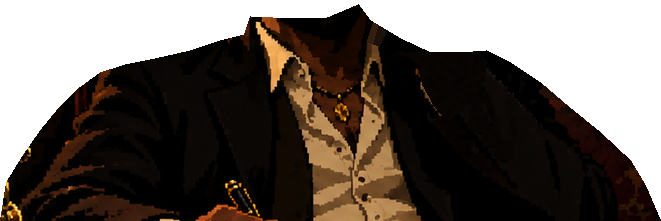
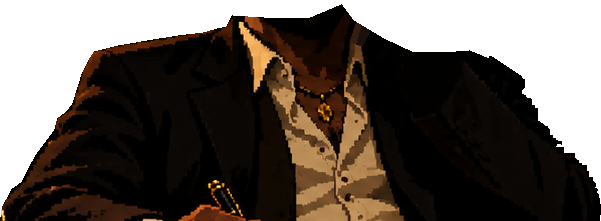
style: improve start screen animation

diff --git a/tools/gen_menu_layers.py b/tools/gen_menu_layers.py
@@ -245,30 +245,50 @@ HAND = [(421.5, 306), (424, 305.2), (431, 304.5), (437, 303.5), (441, 302.5), (4
 		(451.8, 298), (451.8, 292), (455, 289.4), (462, 289.4), (466.5, 290.6), (468.8, 293),
 		(468.8, 297.4), (477, 297.4), (478, 296.4), (483, 296), (484, 292.6), (498, 292.6),
 		(500, 289.6), (508, 289), (517, 291), (518, 304),
-		(507, 308), (511, 312), (521, 322), (533, 342), (549, 366), (560, 384), (552, 398),
+		(507, 307), (502, 311), (500.5, 320), (507, 330), (511.8, 336.5), (515.8, 341), (524, 350), (531.5, 360),
+		(541.5, 372), (546, 378), (551, 386), (552, 398),
 		(536, 414), (527, 412), (520, 402), (505, 394), (490, 388), (470, 381), (455, 378),
 		(450, 380), (443, 376), (441, 368), (432, 370), (427, 366), (428, 348), (430, 333),
 		(432, 326), (428, 321), (424, 317), (421.5, 315.5)]
-# The watch, the cuff and the sleeve down to a cut across it.
-FOREARM = [(520, 404), (532, 388), (540, 372), (552, 366), (566, 376), (572, 388), (586, 392),
-		(610, 404), (640, 424), (668, 448), (612, 510), (585, 490), (562, 468), (546, 458),
-		(536, 446), (524, 424)]
-# What of the forearm has to leave the plate: the sleeve stays (the sprite
-# slides along it), the watch, the cuff and the buttons do not.
-CUFF = [(520, 404), (532, 388), (540, 372), (552, 366), (566, 376), (572, 388), (584, 400),
-		(582, 420), (566, 444), (548, 458), (536, 446), (524, 424)]
-BUTTONS = [(570, 454, 586, 470), (584, 468, 600, 484), (596, 482, 612, 498)]
+# What slides down the sleeve with the hand: the watch, the cuff and the three
+# buttons, and nothing of the sleeve itself (the grey of it stays where it is
+# painted, and so does the upper arm, the black band behind it). They are cut
+# by what is lit, pixel by pixel, inside this line. Only its first stretch,
+# along the watch where it lies on the wrist, is a drawn edge; the rest just
+# keeps the studs of the chair out.
+WRISTBAND = [(514, 408), (519, 403.5), (527, 399.5), (533, 396), (539, 391), (543, 386), (545, 377),
+		(547, 373), (551, 369), (560, 372), (568, 382), (575, 390), (606, 408), (606, 460), (520, 460),
+		(510, 430)]
+BUTTONS = (570, 450, 614, 502)
+# Along these stretches a drawn line is not enough, and the cut follows the
+# pixels: the back of the hand over the chair, and the upper arm against the
+# wall and the blanket.
+HAND_ON_CHAIR = (495, 305, 548, 378)
+ARM_ON_WALL = (606, 396, 726, 561)
+# The lit cloth of the forearm's sleeve: the grey that holds this point,
+# inside this box. The game slides and relights it as the arm tips, so the
+# buttons do not seem to wander down a sleeve that stands still. The axis is
+# the line of its edge (FOREARM_AXIS in menu_scene.gd), which against the
+# upper arm is x = 1.033 y + 163.
+SLEEVE = (566, 398, 700, 566)
+SLEEVE_HOLDS = (610, 450)
+SLEEVE_AXIS = (0.72, 0.7)
 # His face under the hand: inside this line is him, outside is the room.
 JAW = [(392, 284), (470, 284), (470, 300), (467, 312), (461, 324), (452, 336), (442, 346),
 		(428, 350), (392, 350)]
-HEAD = [(298, 300), (298, 224), (316, 190), (350, 166), (400, 156), (450, 160), (482, 176),
-		(502, 206), (508, 240), (503, 270), (494, 290), (482, 306), (472, 326), (458, 342),
-		(444, 352), (425, 357), (395, 357), (372, 352), (356, 346), (338, 356), (310, 352),
-		(298, 340)]
-TORSO = [(350, 356), (344, 374), (320, 380), (290, 390), (255, 398), (225, 404), (200, 412),
-		(178, 428), (158, 448), (140, 470), (122, 496), (106, 522), (100, 560), (760, 560),
-		(745, 525), (730, 500), (700, 472), (668, 446), (640, 422), (610, 402), (586, 390),
-		(560, 392), (530, 392), (500, 378), (470, 360), (458, 344), (425, 358), (395, 358)]
+HEAD = [(296, 226), (300, 212), (310, 198), (326, 184), (344, 172), (360, 164), (380, 161), (399, 162),
+		(416, 167), (436, 168), (457, 175), (468, 190), (478, 208), (485, 228), (488, 250), (489, 275),
+		(487, 292), (482, 306), (472, 326), (458, 342),
+		(444, 352), (425, 357), (395, 357), (372, 352), (356, 346), (346, 353), (342, 358),
+		(336, 357), (334, 351), (327, 349), (325.5, 341), (326, 333), (318, 332.5), (310.5, 326),
+		(307.5, 312), (305, 299), (296, 297)]
+TORSO = [(349, 355), (343, 366), (334, 368.5), (320, 372), (295, 375.5), (270, 379), (235, 385.5),
+		(223, 388.5), (211, 391), (205, 400), (199, 412), (194.5, 428), (189.5, 444), (182, 452),
+		(174, 458), (171, 470), (164, 479), (153, 494), (146, 506), (139, 521), (128, 529), (123, 539),
+		(119, 546), (117, 560), (720, 560), (720, 522), (712, 507.5), (702, 499), (691, 492.5),
+		(682, 490), (676, 479), (668, 465), (658, 459), (656.5, 446), (648.5, 437), (644, 432), (640, 420.5),
+		(610, 400.5), (586, 390), (560, 392), (530, 392), (500, 378), (470, 360), (458, 344),
+		(425, 358), (395, 358)]
 
 EYE_L = (364, 258, 396, 274)
 EYE_R = (420, 246, 448, 260)
@@ -417,23 +437,111 @@ def mouth_frames(bare):
 	return [bare[y0:y1, x0:x1], blow]
 
 
-def cut_man(clean):
+def biggest(mask):
+	"""The largest connected piece of `mask`."""
+	pieces, count = ndimage.label(mask)
+	if count == 0:
+		return mask
+	return pieces == 1 + np.argmax(ndimage.sum(mask, pieces, range(1, count + 1)))
+
+
+def inside(shape, box):
+	x0, y0, x1, y1 = box
+	mask = np.zeros(shape[:2], bool)
+	mask[y0:y1, x0:x1] = True
+	return mask
+
+
+def cut_hand(clean):
+	"""The hand with the cigar. Over the chair its edge is the edge of the
+	lit skin, plus the one dark pixel that outlines it: a line drawn by eye
+	there takes carving and studs along."""
 	shape = clean.shape
 	hand = poly_mask(shape, HAND)
-	fore = poly_mask(shape, FOREARM)
-	cuff = poly_mask(shape, CUFF)
-	for x0, y0, x1, y1 in BUTTONS:
-		cuff[y0:y1, x0:x1] = True
-	# Every bright bit of the cuff and the watch.
-	cuff |= fore & (lum(clean) > 40.0)
-	fore |= ndimage.binary_dilation(cuff, iterations=2)
+	r, b = clean[..., 0], clean[..., 2]
+	skin = (lum(clean) > 30.0) & (b > 0.08 * r)
+	wide = ndimage.binary_dilation(hand, iterations=2)
+	edge = inside(shape, HAND_ON_CHAIR) & wide & ~ndimage.binary_erosion(hand, iterations=4)
+	return hand & ~edge | edge & ndimage.binary_dilation(biggest(skin & wide))
+
+
+def cut_forearm(clean):
+	"""The watch and the cuff in one piece, and the buttons of the sleeve,
+	each with the dark ring around it. Returns the two masks."""
+	shape = clean.shape
+	light = lum(clean)
+	band = poly_mask(shape, WRISTBAND)
+	cuff = biggest(ndimage.binary_closing((light > 24.0) & band, iterations=2) & band)
+	cuff = ndimage.binary_fill_holes(cuff)
+	# Its outline.
+	cuff |= ndimage.binary_dilation(cuff) & (light < 14.0) & band
+	yy, xx = np.mgrid[0:shape[0], 0:shape[1]]
+	shine = (light > 13.0) & inside(shape, BUTTONS)
+	pieces, count = ndimage.label(ndimage.binary_dilation(shine))
+	buttons = np.zeros(shape[:2], bool)
+	for i in range(1, count + 1):
+		face = (pieces == i) & shine
+		if face.sum() < 8:
+			continue
+		cy, cx = ndimage.center_of_mass(face)
+		# The ring around it: the dark that touches it. Below and to the
+		# left the ring runs into the black line along the edge of the
+		# sleeve, which is not the button's, so it is cut shorter there.
+		far = np.hypot(xx - cx, yy - cy)
+		cloth_side = (xx - cx) * 0.78 - (yy - cy) * 0.63 > -2.0
+		near, _ = ndimage.label(face | (light < 6.5) & ((far <= 7.0) | (far <= 9.5) & cloth_side))
+		buttons |= ndimage.binary_fill_holes(np.isin(near, np.unique(near[face])))
+	return cuff, buttons
+
+
+def cut_torso(bare):
+	"""His body. The upper arm is black against the lit wall and the blanket
+	on the arm of the chair, so there the cut is everything that is neither."""
+	shape = bare.shape
+	torso = poly_mask(shape, TORSO)
+	area = inside(shape, ARM_ON_WALL)
+	r, g = bare[..., 0], bare[..., 1]
+	lit = (lum(bare) > 11.5) | (r > 2.2 * g) & (r > 9.0)
+	# The wall and the blanket are the lit pieces that reach outside the line.
+	pieces, _ = ndimage.label(lit & area)
+	wide = ndimage.binary_dilation(torso, iterations=3)
+	room = np.isin(pieces, np.unique(pieces[area & ~wide])) & (pieces > 0)
+	return torso & ~area | area & wide & ~room
+
+
+def arm_light(bare, torso, buttons):
+	"""Which pixels of his body are the cloth of the forearm's sleeve (red)
+	and which are the lit folds of the upper arm behind it (green). Prints
+	where the cloth starts, where its buttons end and where it ends, along
+	the sleeve (SLEEVE_RUN in menu_scene.gd)."""
+	shape = bare.shape
+	light = lum(bare)
+	pieces, _ = ndimage.label((light > 6.5) & inside(shape, SLEEVE) & torso)
+	cloth = ndimage.binary_fill_holes(pieces == pieces[SLEEVE_HOLDS[1], SLEEVE_HOLDS[0]])
+	yy, xx = np.mgrid[0:shape[0], 0:shape[1]]
+	behind = torso & inside(shape, ARM_ON_WALL) & (light > 3.5) & (xx > 1.033 * yy + 167.0)
+	behind &= ~ndimage.binary_dilation(cloth, iterations=2)
+	along = (xx * SLEEVE_AXIS[0] + yy * SLEEVE_AXIS[1]) / np.hypot(*SLEEVE_AXIS)
+	print("sleeve run", round(float(along[cloth].min()), 1), round(float(along[buttons].max()) + 3.0, 1),
+			round(float(along[cloth].max()), 1))
+	return np.dstack([cloth, behind, np.zeros(shape[:2], bool)]) * 255.0
+
+
+def cut_man(clean):
+	shape = clean.shape
+	hand = cut_hand(clean)
+	cuff, buttons = cut_forearm(clean)
+	fore = cuff | buttons
 	jaw = poly_mask(shape, JAW)
 	# The edge of the hand is a pixel or two of it blended into what is
 	# behind. That rim leaves the plate too, but not with the hand (it would
 	# drag a line of his face along): it is a sprite of its own, shown only
-	# while the hand is where the painting has it.
-	rim = ndimage.binary_dilation(hand, iterations=2) & ~hand & ~fore
-	gone = hand | fore & ndimage.binary_dilation(cuff, iterations=2) | rim
+	# while the hand is where the painting has it. The cuff and the buttons
+	# have the same blended edge, and it goes in the same sprite.
+	bald = ndimage.binary_dilation(buttons, iterations=3)
+	seam = (ndimage.binary_dilation(fore, iterations=2) | bald) & ~fore & ~hand
+	rim = ndimage.binary_dilation(hand, iterations=2) & ~hand & ~fore | seam
+	gone = hand | cuff | rim
 	bare = clean.copy()
 	# The room behind the hand: whatever is nearest, never his face.
 	room = nearest_fill(bare, gone | jaw | (lum(bare) > 40.0))
@@ -445,11 +553,24 @@ def cut_man(clean):
 	dark = np.array([7.0, 4.0, 2.0]) * (0.6 + cv2.GaussianBlur(blocky_noise(shape[:2], 4, rng), (0, 0), 1.5))[..., None]
 	fade = np.clip((yy - 298) / 20.0, 0.0, 1.0)[..., None]
 	room = np.where(((yy < 348) & (xx < 512))[..., None], wall * (1.0 - fade) + dark * fade, room)
-	# Behind the cuff there is only the dark of his jacket.
-	room = np.where(((yy >= 392) & (xx >= 496))[..., None], dark, room)
+	# Behind the cuff there is only the black of his jacket.
+	room = np.where(((yy >= 392) & (xx >= 496))[..., None], dark * 0.2, room)
 	bare[gone & ~jaw] = room[gone & ~jaw]
 	paint_face(bare, gone & jaw)
-	return bare, hand, fore, rim
+	# Around where the cuff was, the black gives way to what is beside it.
+	mend = seam & ~bald
+	grown = cv2.inpaint(np.clip(np.round(bare), 0, 255).astype(np.uint8), mend.astype(np.uint8) * 255, 3,
+			cv2.INPAINT_TELEA)
+	bare[mend] = grown[mend]
+	# Where a button was there is the cloth of the sleeve: the plain cloth
+	# nearest to it (not grown in from the edge, which is the dark of the
+	# ring fading out and would leave a smudge). The black beside a button
+	# stays black.
+	light = lum(clean)
+	cloth = (light > 5.0) & (light < 11.5) & ~bald & inside(shape, BUTTONS)
+	bald &= buttons | (light >= 4.5)
+	bare[bald] = nearest_fill(clean, ~cloth)[bald]
+	return bare, hand, fore, rim, buttons
 
 
 def sprite(name, a, mask, pad=0):
@@ -548,15 +669,27 @@ def main():
 	save("sky.png", still)
 	save("clouds.png", np.repeat(clouds[..., None], 3, axis=2) * 255)
 	save("light.png", light_mask(a))
-	bare, hand, fore, rim = cut_man(clean)
+	bare, hand, fore, rim, buttons = cut_man(clean)
 	save("plate.png", bare, alpha=(~sky).astype(float))
+	head, torso = poly_mask(a.shape, HEAD), cut_torso(bare)
+	if DEBUG:
+		# Every cut drawn over the painting, enlarged, to check the lines.
+		k, (x0, y0, x1, y1) = 4, (100, 150, 780, 570)
+		seen = np.repeat(np.repeat(255.0 * (clean[y0:y1, x0:x1] / 255.0) ** 0.42, k, 0), k, 1)
+		for mask, colour in ((torso, (255, 60, 60)), (head, (255, 255, 0)), (hand, (0, 255, 0)), (fore, (0, 200, 255))):
+			big = np.repeat(np.repeat(mask[y0:y1, x0:x1], k, 0), k, 1)
+			seen[big & ~ndimage.binary_erosion(big)] = colour
+		debug("cuts.png", seen)
 	boxes = {
 		"hand": sprite("hand.png", clean, hand),
 		"rim": sprite("hand_rim.png", clean, rim),
 		"forearm": sprite("forearm.png", clean, fore),
-		"head": sprite("head.png", bare, poly_mask(a.shape, HEAD)),
-		"torso": sprite("torso.png", bare, poly_mask(a.shape, TORSO), pad=4),
+		"head": sprite("head.png", bare, head),
+		"torso": sprite("torso.png", bare, torso, pad=4),
 	}
+	# The same piece of the painting as the torso, pixel for pixel.
+	x0, y0, x1, y1 = boxes["torso"]
+	save("torso_folds.png", arm_light(bare, torso, buttons)[y0:y1, x0:x1])
 	left, right = eye_frames(bare)
 	strip("eye_left.png", left)
 	strip("eye_right.png", right)
